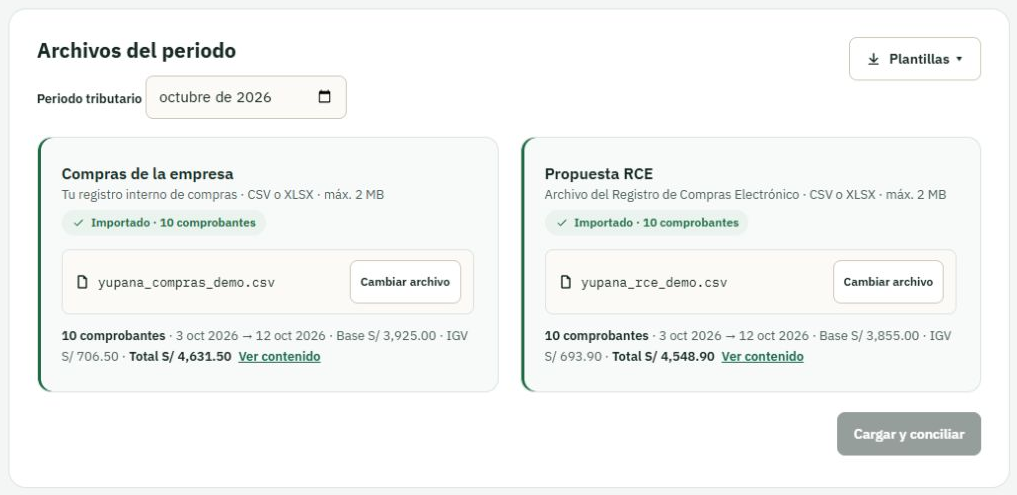
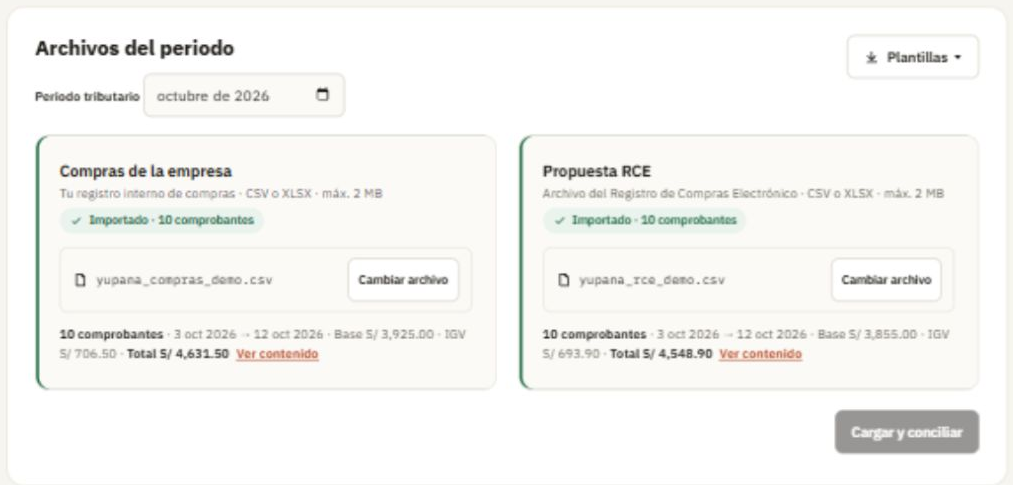
Restaurar la paleta interna de Yupana y simplificar el carrusel

diff --git a/src/main/resources/static/index.html b/src/main/resources/static/index.html
@@ -8,7 +8,7 @@
 <title>Yupana · Cuadra tus compras con el RCE</title>
 <link rel="preconnect" href="https://fonts.googleapis.com">
 <link href="https://fonts.googleapis.com/css2?family=IBM+Plex+Mono:wght@400;500;600&family=IBM+Plex+Sans:wght@400;500;600;700&display=swap" rel="stylesheet">
-<link rel="stylesheet" href="/css/yupana-e1.css?v=recorrido2">
+<link rel="stylesheet" href="/css/yupana-e1.css?v=terracota">
 </head>
 <body class="yp-app yp-public yp-marketing">
 <svg width="0" height="0" style="position:absolute" aria-hidden="true" focusable="false"><defs>
@@ -56,7 +56,6 @@
       <div class="yp-tour" id="recorrido" role="region" aria-label="Demostración de Yupana">
         <p class="yp-tour-intro">Recorre el cierre de compras con una empresa de ejemplo.</p>
         <div class="yp-tour-controls" hidden>
-          <button type="button" class="yp-tour-toggle">Pausar</button>
           <div class="yp-tour-steps" role="group" aria-label="Elegir pantalla">
             <button type="button" aria-controls="tour-empresas" aria-pressed="true">Empresas</button>
             <button type="button" aria-controls="tour-cargas" aria-pressed="false">Carga mensual</button>
@@ -71,19 +70,19 @@
         <div class="yp-tour-slides">
           <figure id="tour-empresas">
             <figcaption><h3>Encuentra la empresa que vas a revisar</h3><p>Busca por razón social o RUC y consulta los casos pendientes de cada cliente.</p></figcaption>
-            <a href="/recorrido/empresas.webp" aria-label="Ampliar captura del panel de empresas"><img loading="lazy" src="/recorrido/empresas.webp" alt="Panel del estudio con indicadores y tarjetas por empresa"></a>
+            <a href="/recorrido/empresas.webp?v=terracota" aria-label="Ampliar captura del panel de empresas"><img loading="lazy" src="/recorrido/empresas.webp?v=terracota" alt="Panel del estudio con indicadores y tarjetas por empresa"></a>
           </figure>
           <figure id="tour-cargas">
             <figcaption><h3>Carga las compras y el RCE del mes</h3><p>Selecciona el periodo y sube los dos archivos en CSV o Excel.</p></figcaption>
-            <a href="/recorrido/cargas.webp" aria-label="Ampliar captura de la carga mensual"><img loading="lazy" src="/recorrido/cargas.webp" alt="Selector de periodo y áreas de carga para compras y propuesta RCE"></a>
+            <a href="/recorrido/cargas.webp?v=terracota" aria-label="Ampliar captura de la carga mensual"><img loading="lazy" src="/recorrido/cargas.webp?v=terracota" alt="Selector de periodo y áreas de carga para compras y propuesta RCE"></a>
           </figure>
           <figure id="tour-resultados">
             <figcaption><h3>Revisa las diferencias por comprobante</h3><p>Ubica los casos pendientes y compara los importes del archivo de compras con los del RCE.</p></figcaption>
-            <a href="/recorrido/resultados.webp" aria-label="Ampliar captura de los resultados"><img loading="lazy" src="/recorrido/resultados.webp" alt="Resumen de conciliación con comprobantes que cuadran y casos por revisar"></a>
+            <a href="/recorrido/resultados.webp?v=terracota" aria-label="Ampliar captura de los resultados"><img loading="lazy" src="/recorrido/resultados.webp?v=terracota" alt="Resumen de conciliación con comprobantes que cuadran y casos por revisar"></a>
           </figure>
           <figure id="tour-historial">
             <figcaption><h3>Recupera los archivos originales</h3><p>Consulta qué se importó en cada mes y descarga la misma versión que subiste.</p></figcaption>
-            <a href="/recorrido/historial.webp" aria-label="Ampliar captura del historial"><img loading="lazy" src="/recorrido/historial.webp" alt="Historial mensual con nombres de archivo y enlaces de descarga"></a>
+            <a href="/recorrido/historial.webp?v=terracota" aria-label="Ampliar captura del historial"><img loading="lazy" src="/recorrido/historial.webp?v=terracota" alt="Historial mensual con nombres de archivo y enlaces de descarga"></a>
           </figure>
         </div>
       </div>
@@ -131,6 +130,6 @@
   </main>
 </div>
 
-<script src="/js/landing.js?v=recorrido2"></script>
+<script src="/js/landing.js?v=terracota"></script>
 </body>
 </html>

diff --git a/src/main/resources/static/css/yupana-e1.css b/src/main/resources/static/css/yupana-e1.css
@@ -361,18 +361,6 @@ body{margin:0;background:#f7f5f0;-webkit-font-smoothing:antialiased}
 .ch-panel .ch-form .e1-btn{align-self:flex-end}
 .e1-menu-lista{min-width:300px}
 /* Application workspace */
-.yp-app .e1{
-  --e-bg:#f4f6f5;
-  --e-panel:#fff;
-  --e-line:#dbe3df;
-  --e-line2:#e6ece9;
-  --e-ink:#172923;
-  --e-mut:#50625b;
-  --e-t:#12634c;
-  --e-tt:#e6f3ed;
-  background:var(--e-bg);
-  min-height:100vh;
-}
 .yp-app .e1-bar{padding:10px clamp(16px,4vw,56px);gap:8px 20px;background:var(--e-panel)}
 .yp-nav{display:flex;align-items:center;justify-content:flex-end;gap:4px 8px;flex-wrap:wrap;margin-left:auto}
 .yp-app .e1-wrap{width:min(100%,1240px);padding:clamp(24px,5vw,64px) clamp(16px,4vw,48px) 72px}
@@ -381,9 +369,6 @@ body{margin:0;background:#f7f5f0;-webkit-font-smoothing:antialiased}
 .yp-app .e1-sub{margin-top:12px;font-size:16px;line-height:1.55}
 .yp-app .e1-meta{overflow-wrap:anywhere;line-height:1.45;margin-bottom:10px}
 .yp-app .e1-btn,.yp-app .pn-icono{min-height:44px}
-.yp-app .e1-btn.t,.yp-app .e1-go #btn-cargar:not(:disabled){color:#fff;background:#12634c;border-color:#12634c}
-.yp-app .e1-btn.t:hover,.yp-app .e1-go #btn-cargar:not(:disabled):hover{background:#0c4938;border-color:#0c4938}
-.yp-app :is(button,a,input,summary):focus-visible{outline:3px solid #12634c;outline-offset:3px}
 .yp-app #totales{grid-template-columns:repeat(4,minmax(0,1fr));gap:clamp(8px,2vw,18px);margin-bottom:28px}
 .yp-app .e1-stat{padding:clamp(12px,2vw,20px);border-radius:14px;min-width:0}
 .yp-app .e1-stat b{font-size:clamp(16px,2.3vw,26px);overflow-wrap:anywhere}
@@ -405,7 +390,7 @@ body{margin:0;background:#f7f5f0;-webkit-font-smoothing:antialiased}
 .yp-company-head p,.yp-company-detail{color:var(--e-mut);font-size:13px;overflow-wrap:anywhere}
 .yp-company-head p{margin-top:5px}
 .yp-company-metrics{display:grid;grid-template-columns:repeat(2,minmax(0,1fr));gap:1px;border:1px solid var(--e-line2);background:var(--e-line2);border-radius:10px;overflow:hidden}
-.yp-company-metrics>div{background:#f7faf8;padding:10px 12px;min-width:0}
+.yp-company-metrics>div{background:#fbfaf7;padding:10px 12px;min-width:0}
 .yp-company-metrics dt{font-size:12px;color:var(--e-mut)}
 .yp-company-metrics dd{font-weight:600;margin:4px 0 0;overflow-wrap:anywhere}
 .yp-company-detail{display:flex;align-items:center;gap:6px 14px;flex-wrap:wrap}
@@ -418,8 +403,8 @@ body{margin:0;background:#f7f5f0;-webkit-font-smoothing:antialiased}
 .yp-upload-bar .e1-menu-lista{left:auto;right:0;width:min(280px,76vw);min-width:0}
 .yp-upload .e1-periodo{margin:12px 0 0}
 .yp-upload .e1-grid{grid-template-columns:repeat(2,minmax(0,1fr));gap:clamp(12px,2vw,22px)}
-.yp-upload .e1-card{border-radius:14px;background:#f7faf8;min-width:0;padding:clamp(14px,2.5vw,24px)}
-.yp-upload .e1-drop:not([hidden]){display:grid;place-content:center;gap:5px;min-height:132px;background:var(--e-panel);border-color:#8ca79b;border-radius:12px}
+.yp-upload .e1-card{border-radius:14px;background:#fbfaf7;min-width:0;padding:clamp(14px,2.5vw,24px)}
+.yp-upload .e1-drop:not([hidden]){display:grid;place-content:center;gap:5px;min-height:132px;background:var(--e-panel);border-color:#cfc8ba;border-radius:12px}
 .yp-upload .e1-drop:hover{background:var(--e-tt);border-color:var(--e-t)}
 .yp-upload .e1-file,.yp-upload .e1-file .acts{flex-wrap:wrap}
 .yp-upload .e1-file .acts{max-width:100%}

diff --git a/src/main/resources/static/js/landing.js b/src/main/resources/static/js/landing.js
@@ -17,10 +17,8 @@ const recorrido = document.getElementById("recorrido");
 const controles = recorrido.querySelector(".yp-tour-controls");
 const diapositivas = recorrido.querySelector(".yp-tour-slides");
 const botones = [...controles.querySelectorAll("[aria-controls]")];
-const alternar = controles.querySelector(".yp-tour-toggle");
 const movimientoReducido = matchMedia("(prefers-reduced-motion: reduce)");
 let indice = 0;
-let pausado = movimientoReducido.matches;
 let visible = false;
 let temporizador;
 
@@ -35,38 +33,28 @@ function mostrarPantalla(nuevoIndice) {
 
 function programarAvance() {
   clearTimeout(temporizador);
-  if (pausado || !visible || document.hidden || diapositivas.matches(":hover, :focus-within")) return;
+  if (movimientoReducido.matches || !visible || document.hidden || diapositivas.matches(":hover, :focus-within")) return;
   temporizador = setTimeout(() => {
     mostrarPantalla(indice + 1);
     programarAvance();
   }, 7000);
 }
 
-function cambiarPausa(valor) {
-  pausado = valor;
-  alternar.textContent = pausado ? "Reproducir" : "Pausar";
-  diapositivas.setAttribute("aria-live", pausado ? "polite" : "off");
-  programarAvance();
-}
-
 function seleccionar(nuevoIndice) {
-  cambiarPausa(true);
   mostrarPantalla(nuevoIndice);
+  programarAvance();
 }
 
 botones.forEach((boton, posicion) => boton.addEventListener("click", () => seleccionar(posicion)));
 for (const flecha of controles.querySelectorAll("[data-tour-step]")) {
   flecha.addEventListener("click", () => seleccionar(indice + Number(flecha.dataset.tourStep)));
 }
-alternar.addEventListener("click", () => cambiarPausa(!pausado));
 for (const evento of ["pointerenter", "pointerleave", "focusin"]) {
   diapositivas.addEventListener(evento, programarAvance);
 }
 diapositivas.addEventListener("focusout", () => requestAnimationFrame(programarAvance));
 document.addEventListener("visibilitychange", programarAvance);
-movimientoReducido.addEventListener("change", evento => {
-  if (evento.matches) cambiarPausa(true);
-});
+movimientoReducido.addEventListener("change", programarAvance);
 new IntersectionObserver(([entrada]) => {
   visible = entrada.isIntersecting;
   programarAvance();
@@ -74,4 +62,4 @@ new IntersectionObserver(([entrada]) => {
 
 mostrarPantalla(0);
 controles.hidden = false;
-cambiarPausa(pausado);
+programarAvance();

diff --git a/src/main/resources/static/demo.html b/src/main/resources/static/demo.html
@@ -7,7 +7,7 @@
 <title>Yupana · Revisión de casos</title>
 <link rel="preconnect" href="https://fonts.googleapis.com">
 <link href="https://fonts.googleapis.com/css2?family=IBM+Plex+Mono:wght@400;500;600&family=IBM+Plex+Sans:wght@400;500;600;700&display=swap" rel="stylesheet">
-<link rel="stylesheet" href="/css/yupana-e1.css">
+<link rel="stylesheet" href="/css/yupana-e1.css?v=terracota">
 </head>
 <body class="yp-app">
 <svg width="0" height="0" style="position:absolute" aria-hidden="true" focusable="false"><defs>

diff --git a/src/main/resources/static/panel.html b/src/main/resources/static/panel.html
@@ -7,7 +7,7 @@
 <title>Yupana · Panel del estudio</title>
 <link rel="preconnect" href="https://fonts.googleapis.com">
 <link href="https://fonts.googleapis.com/css2?family=IBM+Plex+Mono:wght@400;500;600&family=IBM+Plex+Sans:wght@400;500;600;700&display=swap" rel="stylesheet">
-<link rel="stylesheet" href="/css/yupana-e1.css">
+<link rel="stylesheet" href="/css/yupana-e1.css?v=terracota">
 </head>
 <body class="yp-app">
 <svg width="0" height="0" style="position:absolute" aria-hidden="true" focusable="false"><defs>

diff --git a/src/main/resources/static/login.html b/src/main/resources/static/login.html
@@ -7,7 +7,7 @@
 <title>Yupana · Ingresar</title>
 <link rel="preconnect" href="https://fonts.googleapis.com">
 <link href="https://fonts.googleapis.com/css2?family=IBM+Plex+Mono:wght@400;500;600&family=IBM+Plex+Sans:wght@400;500;600;700&display=swap" rel="stylesheet">
-<link rel="stylesheet" href="/css/yupana-e1.css">
+<link rel="stylesheet" href="/css/yupana-e1.css?v=terracota">
 </head>
 <body class="yp-app yp-public yp-login">
 <div class="e1">

diff --git a/src/main/resources/static/clave.html b/src/main/resources/static/clave.html
@@ -7,7 +7,7 @@
 <title>Yupana · Cambiar clave</title>
 <link rel="preconnect" href="https://fonts.googleapis.com">
 <link href="https://fonts.googleapis.com/css2?family=IBM+Plex+Mono:wght@400;500;600&family=IBM+Plex+Sans:wght@400;500;600;700&display=swap" rel="stylesheet">
-<link rel="stylesheet" href="/css/yupana-e1.css">
+<link rel="stylesheet" href="/css/yupana-e1.css?v=terracota">
 </head>
 <body>
 <div class="e1">
